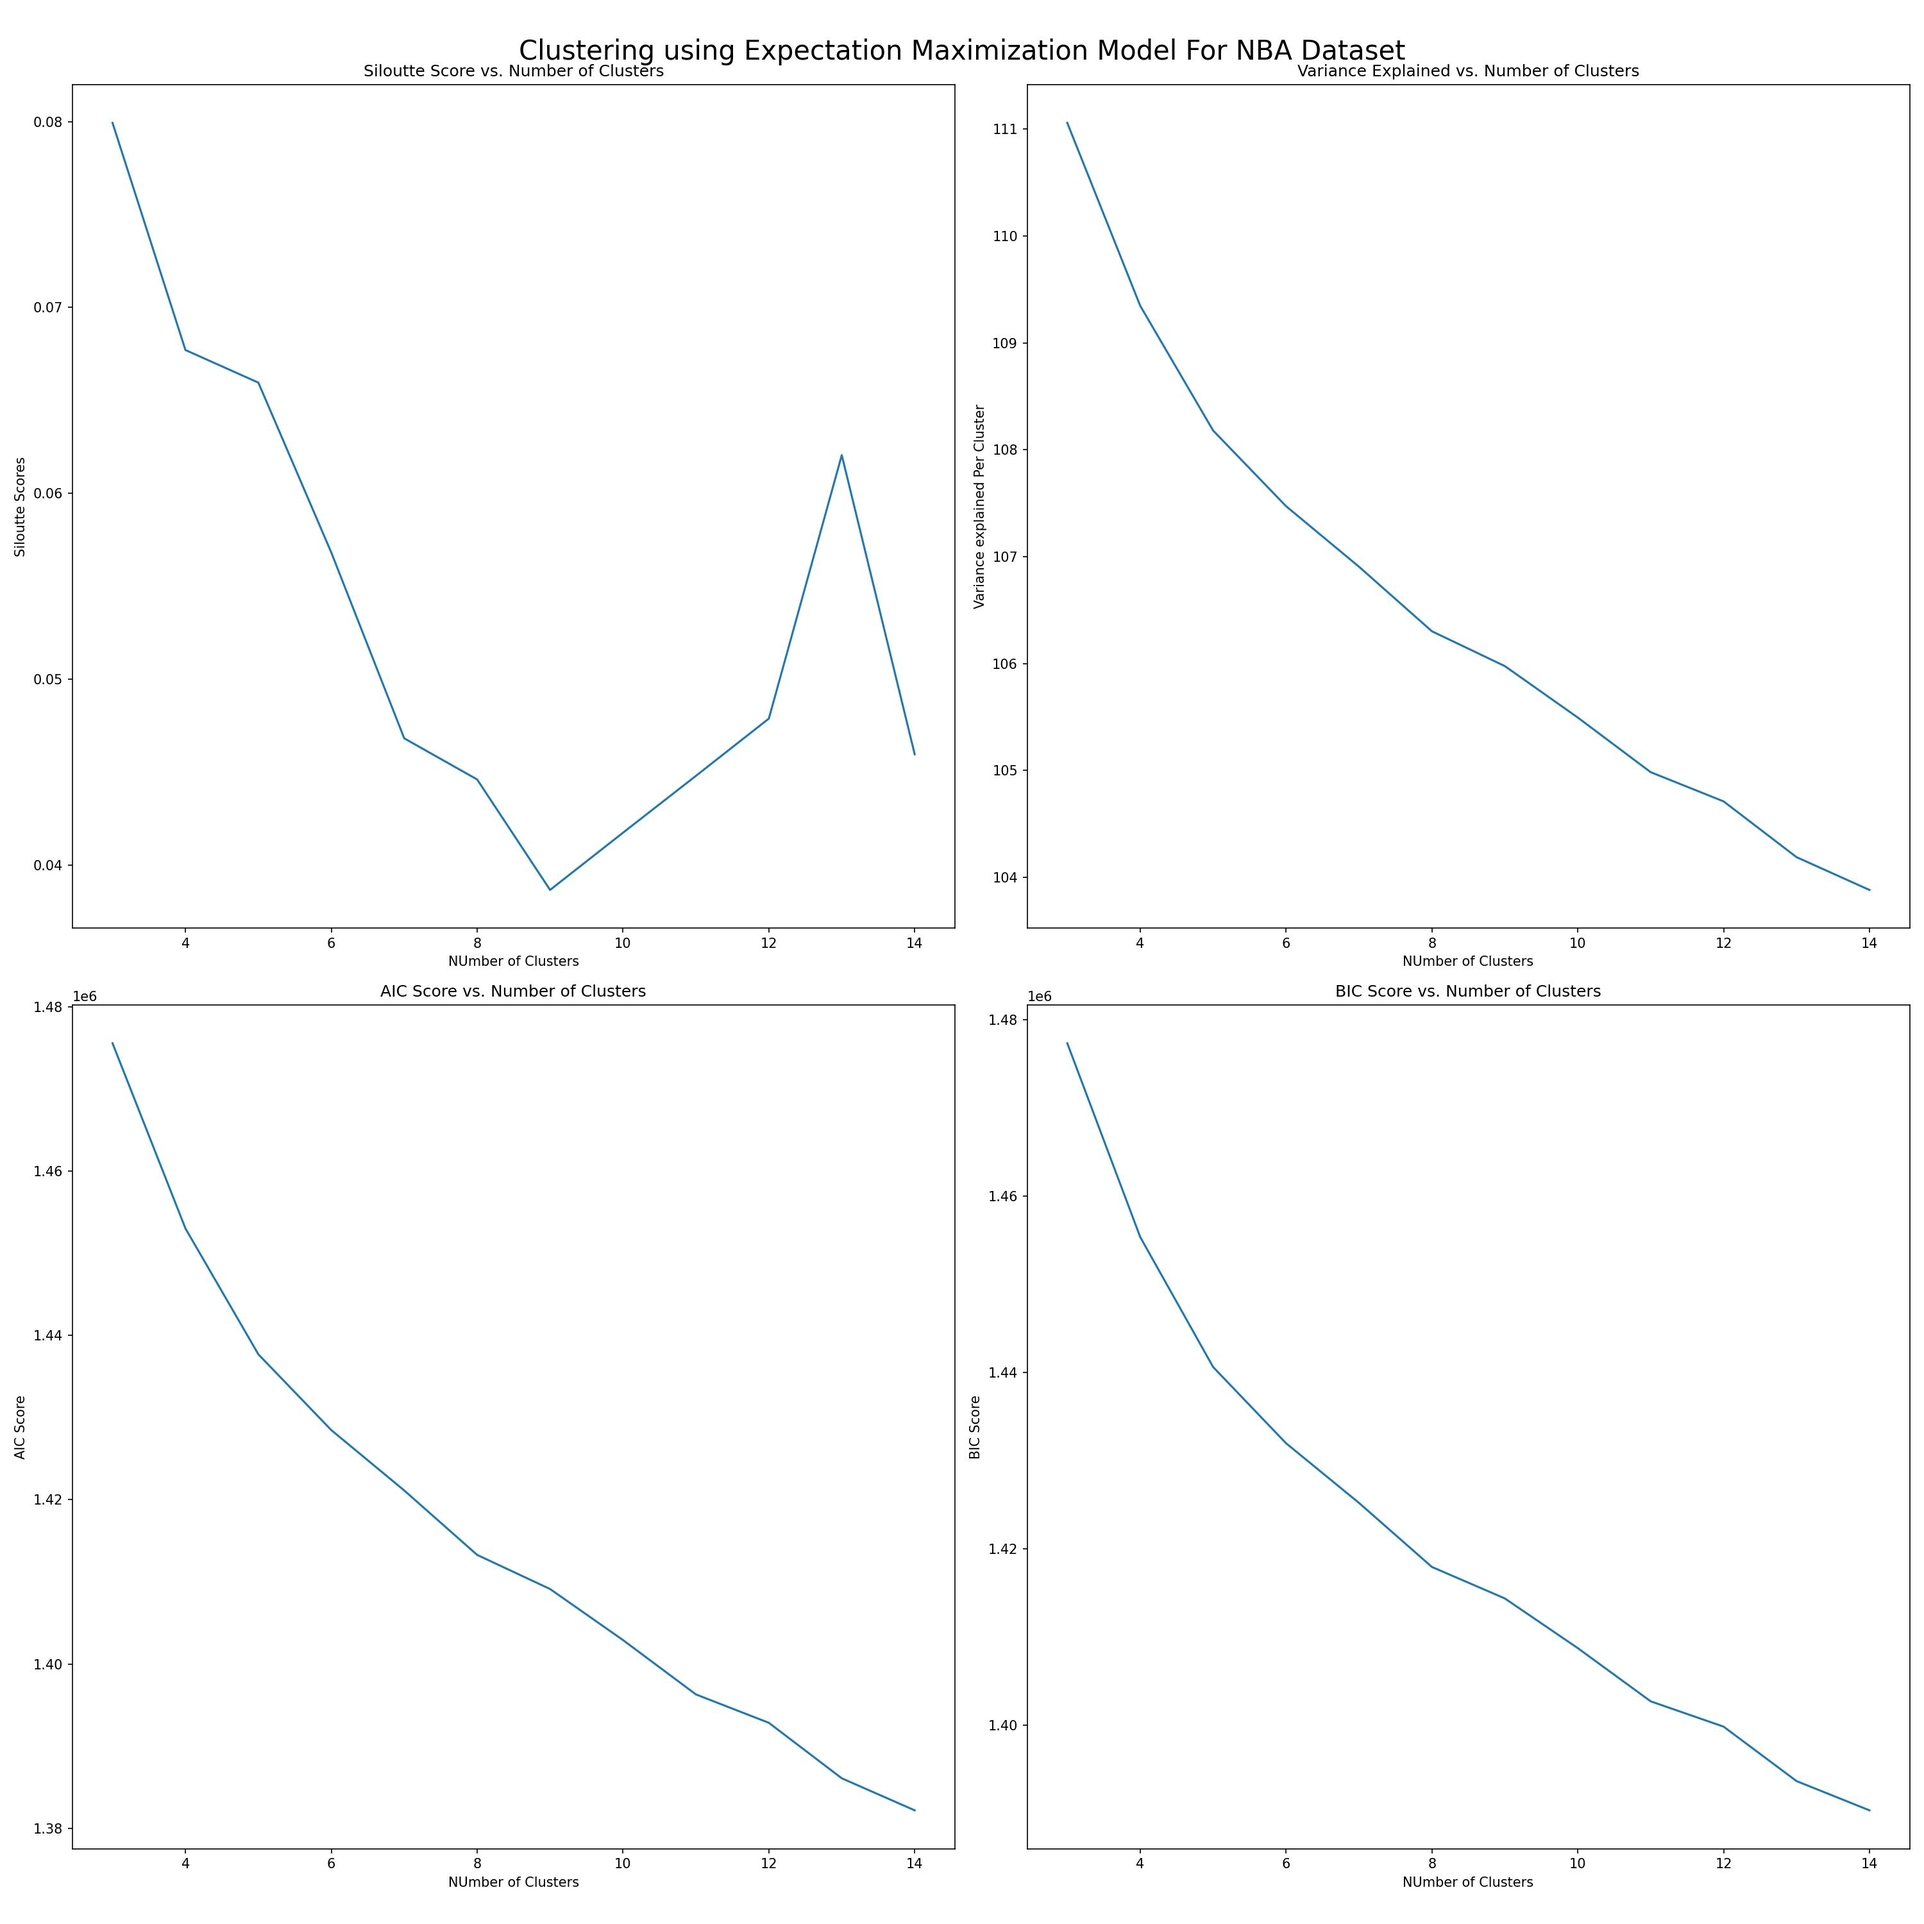
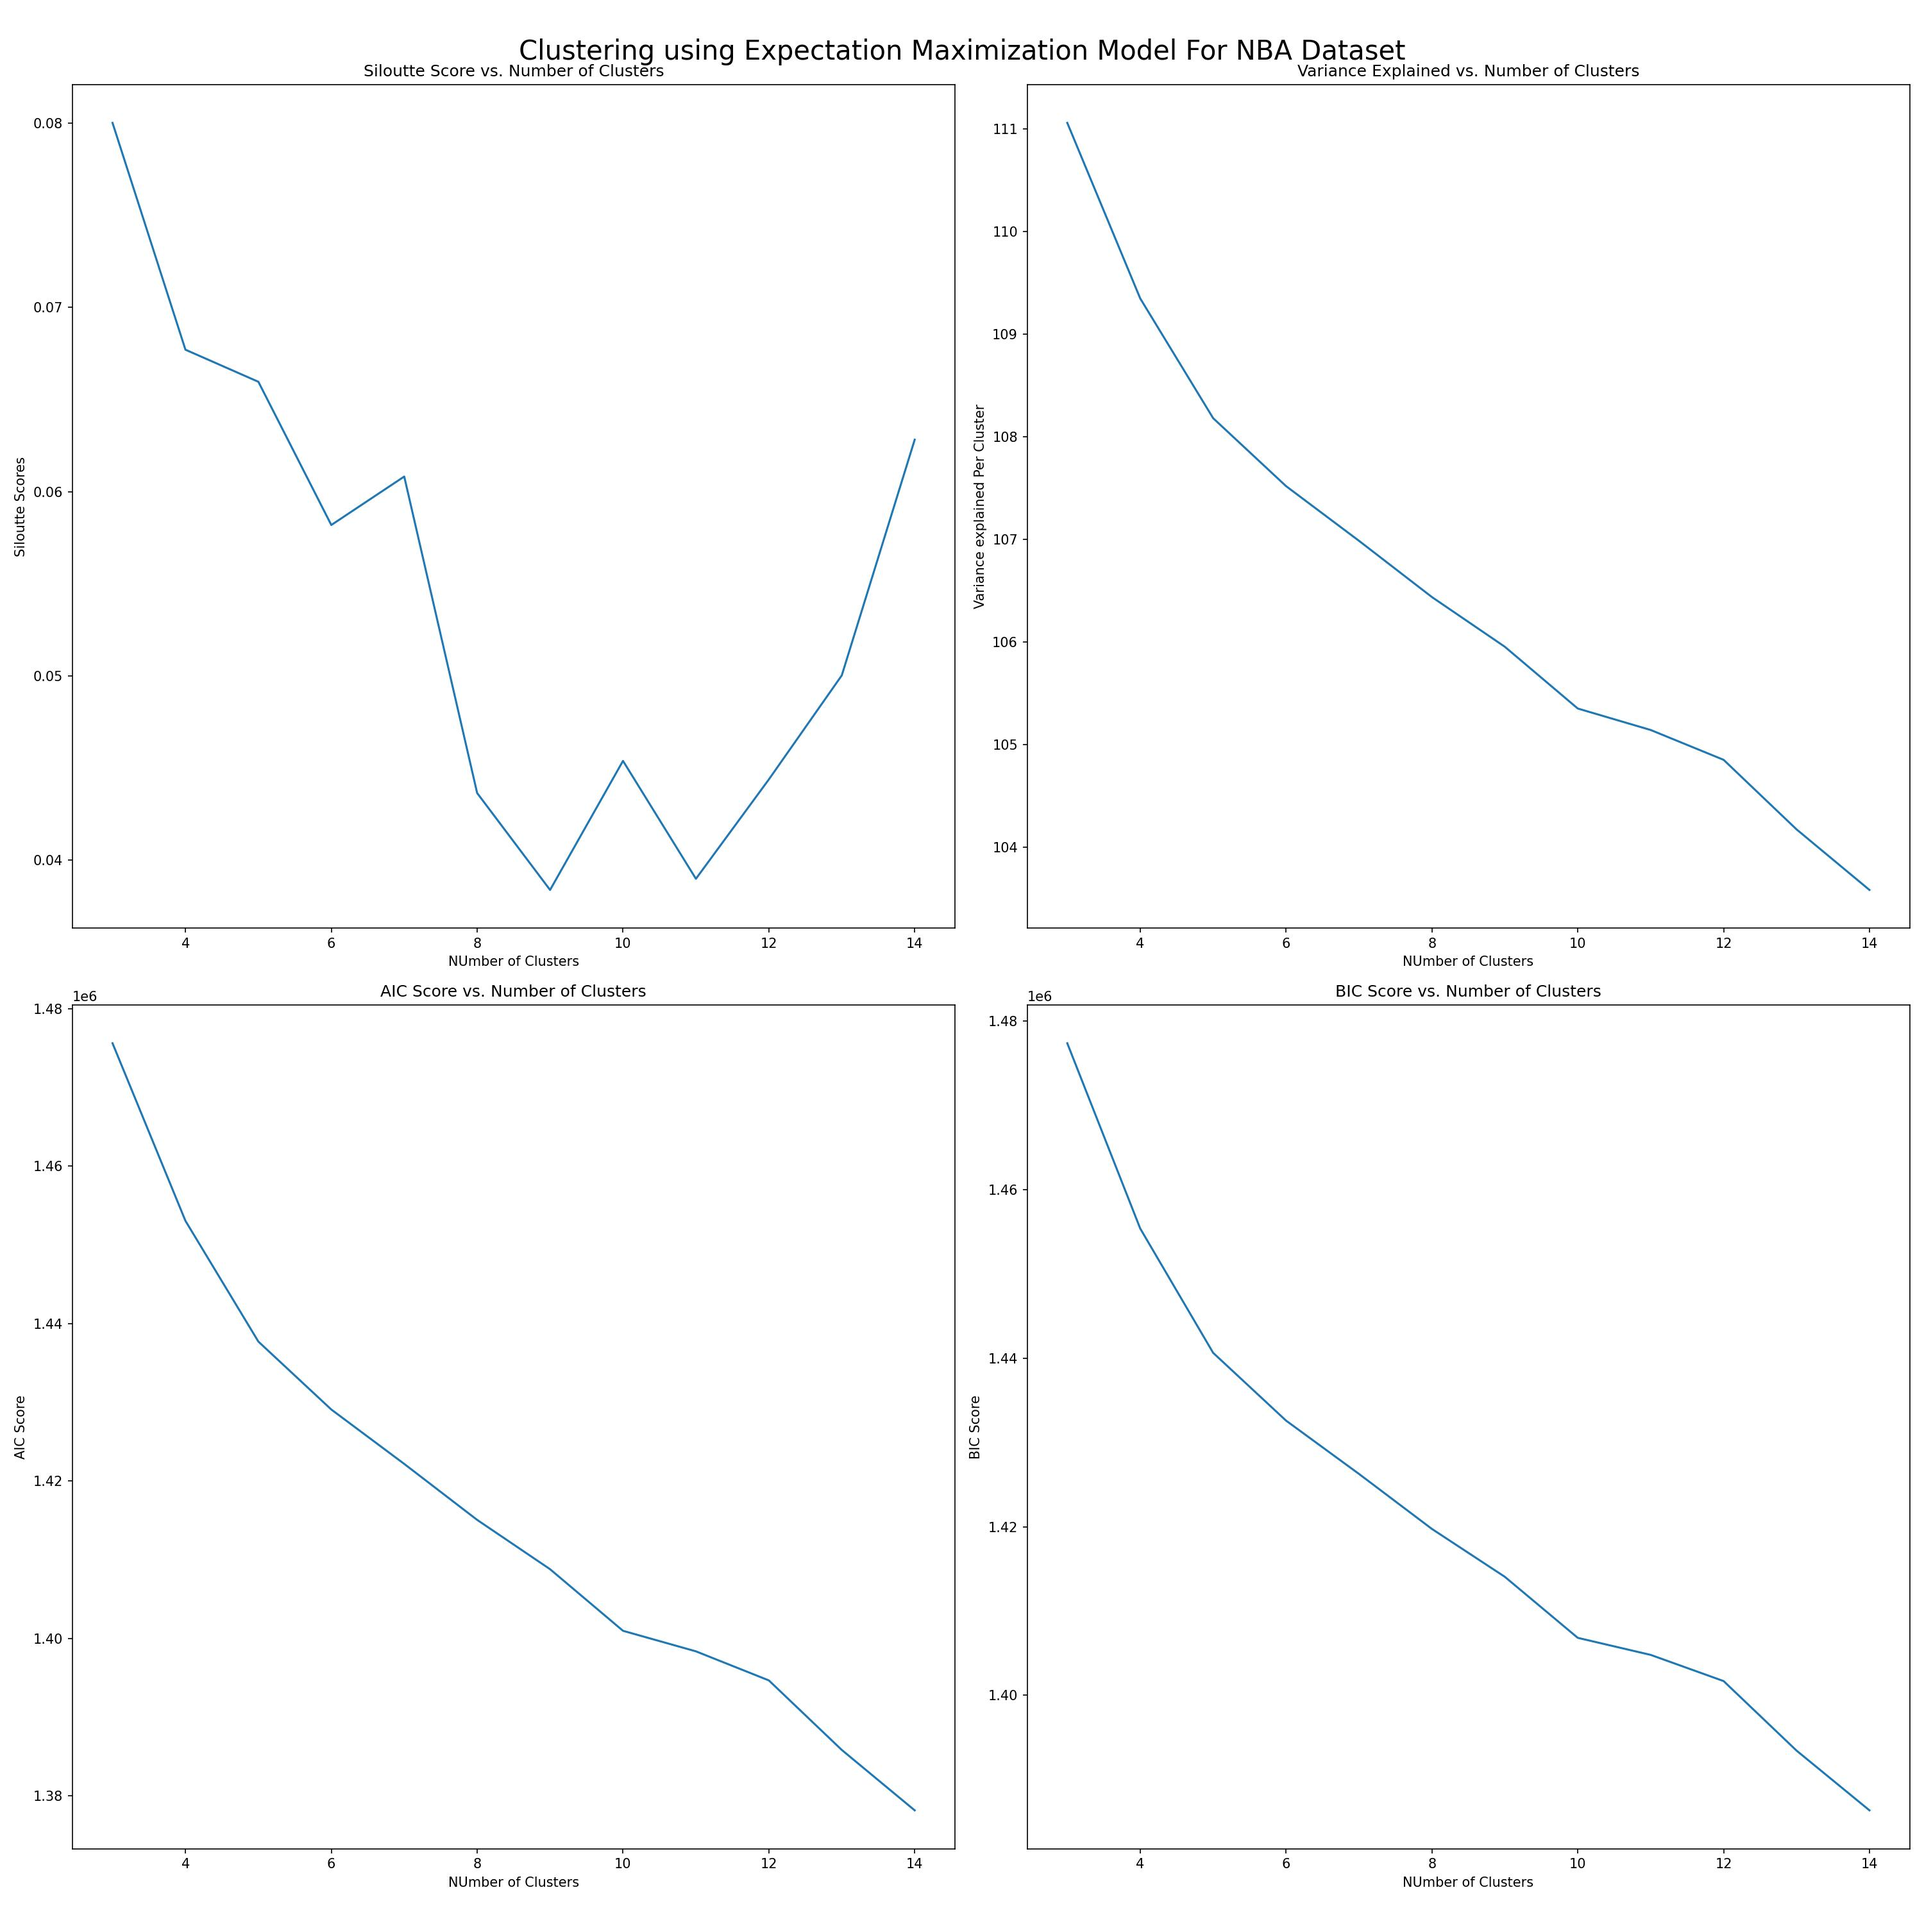
update code, add metrics

diff --git a/unsupervised_learning/src/main.py b/unsupervised_learning/src/main.py
@@ -107,24 +107,35 @@ def all_analysis(dataset_name):
         )
 
     # perform clustering again on the reduced dataset
-    cluster_data_map = defaultdict(defaultdict())
-    optimal_num_clusters = {"K-means": 8, "Expectation Maximization": 10}
+    cluster_data_map = defaultdict(lambda: defaultdict(lambda: dict))
+    optimal_num_clusters = {"K-means": 8, "Expectation Maximization": 8}
     for cluster_model_name in CLUSTERING_MODEL_NAMES:
         for dim_reduction_model_name, reduced_data in reduced_data_map.items():
+            print(
+                f"Clustering {dataset_name} Dataset with {dim_reduction_model_name} Using {cluster_model_name}"
+            )
+            clustered_data, metrics = CLUSTERING_MODEL_MAPPING[cluster_model_name](
+                reduced_data, optimal_num_clusters[cluster_model_name]
+            )
             cluster_data_map[cluster_model_name][
                 dim_reduction_model_name
-            ] = CLUSTERING_MODEL_MAPPING[cluster_model_name](
-                reduced_data, optimal_num_clusters[cluster_model_name]
+            ] = clustered_data
+            print(
+                f"""
+                Metrics for Clustering {dataset_name} Dataset with {dim_reduction_model_name} Using {cluster_model_name}:
+                {metrics}
+                """
             )
 
     # run neural network with dimension reduced features on NBA dataset only
     if dataset_name == "NBA":
         _, axes = plt.subplots(4, 4, figsize=(20, 20))
-        for i, dim_reduction_model_name, reduced_data in enumerate(
+        for i, (dim_reduction_model_name, reduced_data) in enumerate(
             reduced_data_map.items()
         ):
-            neural_network = MLPClassifier(hidden_layer_sizes=(32,))
+            neural_network = MLPClassifier(hidden_layer_sizes=(32,), max_iter=1000)
             cv = ShuffleSplit(n_splits=5, test_size=0.1, random_state=RANDOM_SEED)
+            reduced_data.columns = list(map(str, reduced_data.columns))
             # plot learning curves cluster on the corresponding axes
             plot_learning_curve(
                 dim_reduction_model_name,
@@ -142,12 +153,12 @@ def all_analysis(dataset_name):
             fontsize=20,
         )
         plt.tight_layout(rect=[0, 0.01, 1, 0.99])
-        plt.savefig("../reports/figures/nn_dim_reduction.jpg", dpi=150)
+        plt.savefig("./reports/figures/nn_dim_reduction.jpg", dpi=150)
 
         # run neural network with cluster label added as features
         for cluster_model_name in CLUSTERING_MODEL_NAMES:
             _, axes = plt.subplots(4, 4, figsize=(20, 20))
-            for i, dim_reduction_model_name, reduced_data in enumerate(
+            for i, (dim_reduction_model_name, reduced_data) in enumerate(
                 reduced_data_map.items()
             ):
                 neural_network = MLPClassifier(hidden_layer_sizes=(32,))
@@ -170,7 +181,7 @@ def all_analysis(dataset_name):
             )
             plt.tight_layout(rect=[0, 0.01, 1, 0.99])
             plt.savefig(
-                "../reports/figures/nn_{cluster_model_name}_dim_reduction.jpg", dpi=150
+                f"./reports/figures/nn_{cluster_model_name}_dim_reduction.jpg", dpi=150
             )
 
 
@@ -205,5 +216,5 @@ if __name__ == "__main__":
         "NBA": preprocess_nba_players_data,
         "Twitter": preprocess_tweets,
     }
-    # all_analysis("Twitter")
     all_analysis("NBA")
+    all_analysis("Twitter")

diff --git a/unsupervised_learning/src/models/clustering.py b/unsupervised_learning/src/models/clustering.py
@@ -8,7 +8,7 @@ def k_means_clustering_experiment(data):
     """Generate metric scores of k means clustering for NBA dataset given preprocessed data"""
     # loop through the number of clusters with kmeans and record the scores
     siloutte_scores = []
-    variance_explained_cluster = []
+    average_distance_cluster = []
 
     for num_clusters in NUM_CLUSTERS_LIST:
         # fit the k means clustering
@@ -21,11 +21,11 @@ def k_means_clustering_experiment(data):
             metrics.silhouette_score(data, predicted_label, metric="euclidean")
         )
         # Variance explained by the cluster
-        variance_explained_cluster.append(-clf.score(data))
+        average_distance_cluster.append(-clf.score(data))
 
     return {
         "siloutte_scores": siloutte_scores,
-        "variance_explained_cluster": variance_explained_cluster,
+        "average_distance_cluster": average_distance_cluster,
     }
 
 
@@ -35,7 +35,7 @@ def expectation_maximization_experiment(data):
     aic_scores = []
     bic_scores = []
     siloutte_scores = []
-    variance_explained_cluster = []
+    average_distance_cluster = []
 
     for num_clusters in NUM_CLUSTERS_LIST:
         # fit the gaussian mixture clustering
@@ -54,13 +54,13 @@ def expectation_maximization_experiment(data):
             metrics.silhouette_score(data, predicted_label, metric="euclidean")
         )
         # Variance explained by the cluster
-        variance_explained_cluster.append(-clf.score(data))
+        average_distance_cluster.append(-clf.score(data))
 
     return {
         "aic_scores": aic_scores,
         "bic_scores": bic_scores,
         "siloutte_scores": siloutte_scores,
-        "variance_explained_cluster": variance_explained_cluster,
+        "average_distance_cluster": average_distance_cluster,
     }
 
 
@@ -72,8 +72,15 @@ def k_means_clustering(data, num_clusters):
     clf = KMeans(n_clusters=num_clusters, init="k-means++")
     clf.fit(data)
     predicted_label = clf.predict(data)
+    # get metrics
+    sil_score = metrics.silhouette_score(data, predicted_label, metric="euclidean")
+    average_distance_cluster = -clf.score(data)
+    # add cluster labels
     data["cluster_label"] = predicted_label
-    return data
+    return data, {
+        "silhouette_score": sil_score,
+        "average_distance_cluster": average_distance_cluster,
+    }
 
 
 def expectation_maximization_clustering(data, num_clusters):
@@ -86,5 +93,16 @@ def expectation_maximization_clustering(data, num_clusters):
     )
     clf.fit(data)
     predicted_label = clf.predict(data)
+    # get metrics
+    sil_score = metrics.silhouette_score(data, predicted_label, metric="euclidean")
+    average_distance_cluster = -clf.score(data)
+    aic_score = clf.aic(data)
+    bic_score = clf.bic(data)
+    # add cluster label
     data["cluster_label"] = predicted_label
-    return data
+    return data, {
+        "silhouette_score": sil_score,
+        "average_distance_cluster": average_distance_cluster,
+        "aic_score": aic_score,
+        "bic_score": bic_score,
+    }

diff --git a/unsupervised_learning/src/visualization/visualize.py b/unsupervised_learning/src/visualization/visualize.py
@@ -1,9 +1,10 @@
 import matplotlib.pyplot as plt
 import numpy as np
+from sklearn.model_selection import learning_curve
 from src.config.config import NUM_CLUSTERS_LIST
 
 
-def kmeans_visuals(siloutte_scores, variance_explained_cluster, dataset_name):
+def kmeans_visuals(siloutte_scores, average_distance_cluster, dataset_name):
     """Plot the Siloutte scores and variance explained per cluster for k means"""
     fig, (ax1, ax2) = plt.subplots(1, 2, figsize=(15, 10))
     fig.suptitle(f"Clustering {dataset_name} with K-Means Clustering")
@@ -13,7 +14,7 @@ def kmeans_visuals(siloutte_scores, variance_explained_cluster, dataset_name):
     ax1.set_ylabel("Siloutte Scores")
     ax1.set_title("Siloutte Score vs. # Clusters")
     # plot the variance explained per cluster
-    ax2.plot(NUM_CLUSTERS_LIST, variance_explained_cluster)
+    ax2.plot(NUM_CLUSTERS_LIST, average_distance_cluster)
     ax2.set_xlabel("NUmber of Clusters")
     ax2.set_ylabel("Average Distance Between Points")
     ax2.set_title("Average Distance vs. # Clusters")
@@ -21,7 +22,7 @@ def kmeans_visuals(siloutte_scores, variance_explained_cluster, dataset_name):
 
 
 def expectation_maximization_visuals(
-    aic_scores, bic_scores, siloutte_scores, variance_explained_cluster, dataset_name
+    aic_scores, bic_scores, siloutte_scores, average_distance_cluster, dataset_name
 ):
     """
     Plot the aic, bic siloutte scores, and variance explained per cluster
@@ -35,7 +36,7 @@ def expectation_maximization_visuals(
     ax1.set_ylabel("Siloutte Scores")
     ax1.set_title("Siloutte Score vs. Number of Clusters")
     # plot the variance explained per cluster
-    ax2.plot(NUM_CLUSTERS_LIST, variance_explained_cluster)
+    ax2.plot(NUM_CLUSTERS_LIST, average_distance_cluster)
     ax2.set_xlabel("NUmber of Clusters")
     ax2.set_ylabel("Variance explained Per Cluster")
     ax2.set_title("Variance Explained vs. Number of Clusters")
@@ -219,7 +220,7 @@ def plot_learning_curve(
 
     axes[0].set_title(
         f"""
-        Learning Curve with {model_name} Transformation on the NBA DataSet
+        Learning Curve with {model_name} Transformation
         """
     )
     if ylim is not None:

diff --git a/unsupervised_learning/src/data/twitter_dataset.py b/unsupervised_learning/src/data/twitter_dataset.py
@@ -48,7 +48,20 @@ class TwitterDataset:
 
         # sample to get a smaller dataset
         data = data.groupby("tweet_id").head(1)
-
+        data = data[
+            data["entity"].isin(
+                [
+                    "FIFA",
+                    "Amazon",
+                    "NBA2K",
+                    "MaddenNFL",
+                    "Google",
+                    "Xbox(Xseries)",
+                    "Facebook",
+                    "Overwatch",
+                ]
+            )
+        ]
         # get the training, validation and test data and save to X, y attributes
         y = data["sentiment"].map(self.label_encode_mapping)
         X = data.drop(["sentiment"], axis=1)

diff --git a/unsupervised_learning/src/models/dimensionality_reduction.py b/unsupervised_learning/src/models/dimensionality_reduction.py
@@ -46,7 +46,7 @@ def reduce_by_random_projection(data):
         rp = GaussianRandomProjection(n_components=num_components)
         rp_model = rp.fit(data)
         reduced_data = rp_model.transform(data)
-        reduced_data_list.append(reduced_data)
+        reduced_data_list.append(pd.DataFrame(reduced_data))
         # find P_inverse and get the reconstructed_data
         p_inverse = np.linalg.pinv(rp_model.components_.T)
         reconstructed_data = reduced_data.dot(p_inverse)
